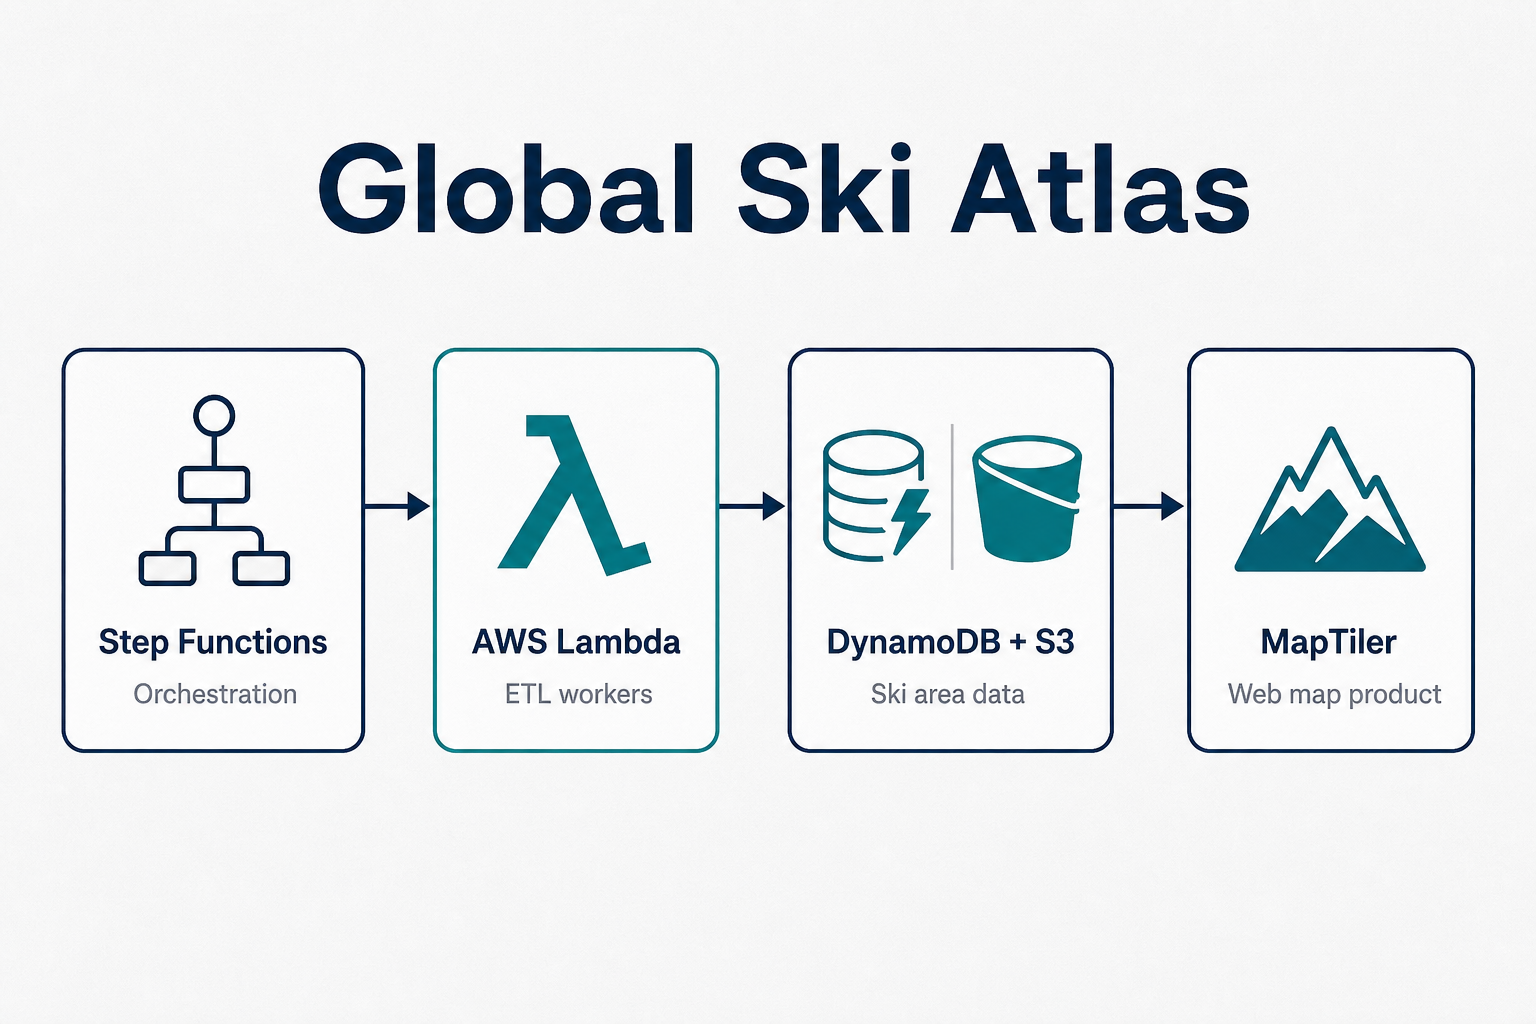
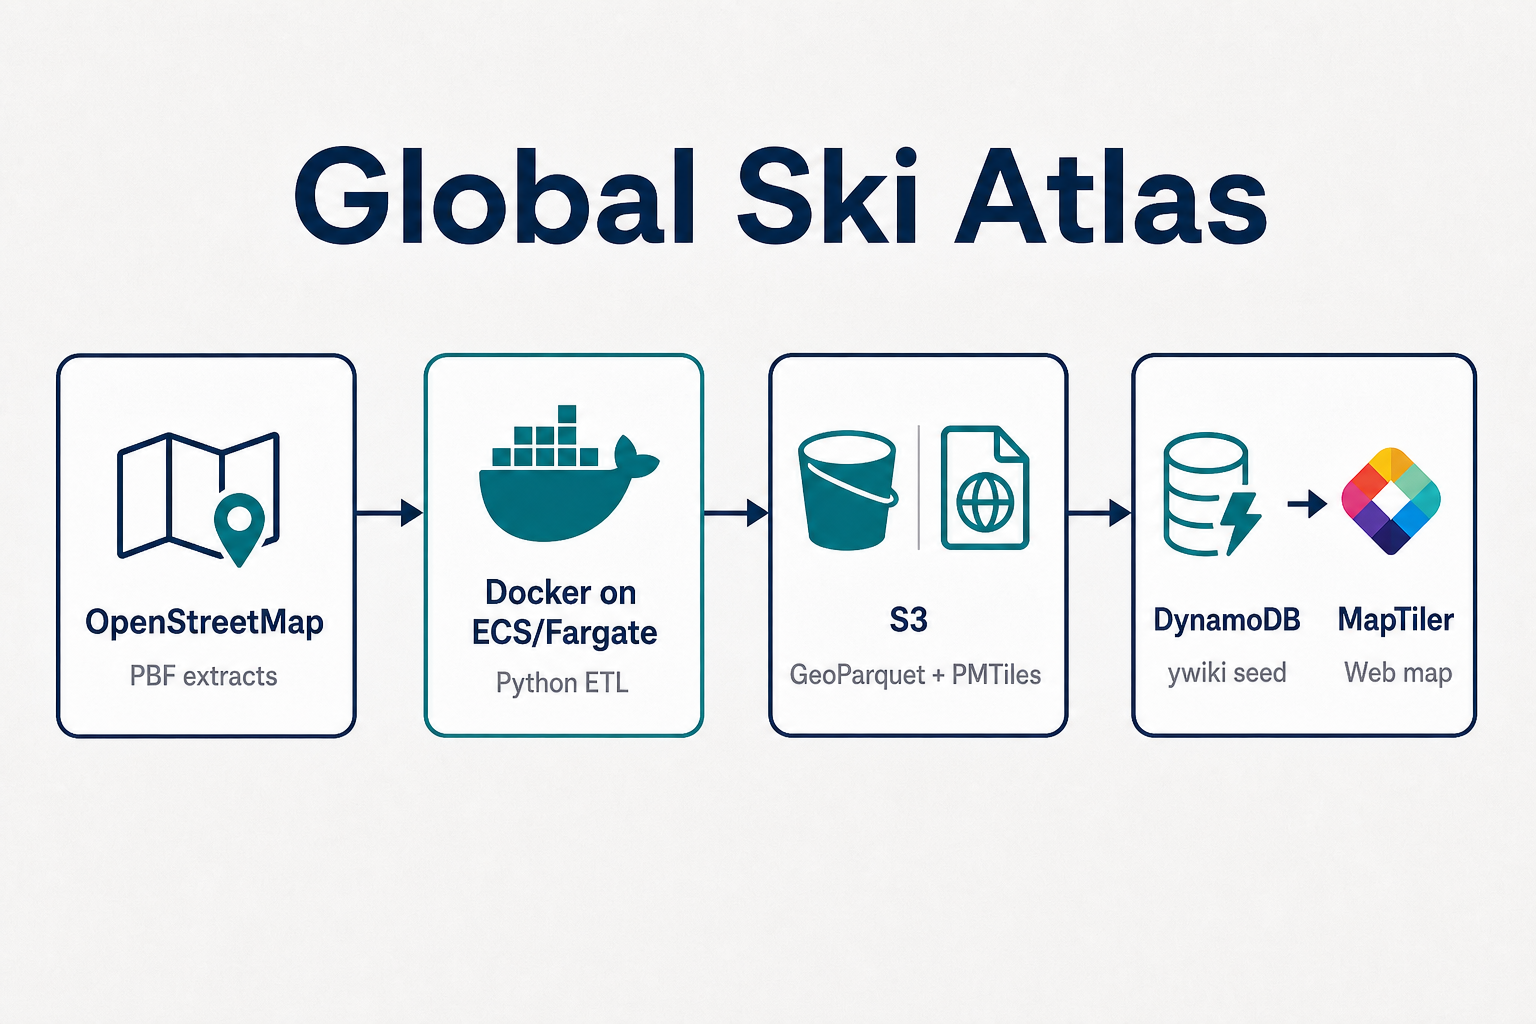
Update Global Ski Atlas architecture: Docker ETL and Parquet→DynamoDB for ywiki.
Reflect the real pipeline — OSM extracts via Docker on ECS/Fargate to GeoParquet/PMTiles, with Parquet seeding ywiki DynamoDB after Lambda limits — and refresh matching diagrams plus copy.

Changed region(s): [[0.0312, 0.3125, 0.9688, 0.75], [0.1875, 0.125, 0.8438, 0.25]]

diff --git a/HTML/src/data/site-data.ts b/HTML/src/data/site-data.ts
@@ -32,7 +32,7 @@ export const experienceData = [
         endYear: "Present",
         bulletPoints: [
             "Build ArcGIS-connected web tools and Python pipelines for map editing, validation, and data extraction",
-            "Ship Global Ski Atlas (3,000+ ski areas) as a live MapTiler web map with automated ETL"
+            "Ship Global Ski Atlas (3,000+ ski areas) as a live MapTiler web map with Docker/ECS ETL (OSM → Parquet/PMTiles → DynamoDB for ywiki)"
         ]
     },
     {
@@ -108,20 +108,20 @@ export const featureWork = [
     {
         title: "Global Ski Atlas",
         description:
-            "Orchestrated serverless GIS backend on AWS: Step Functions drives Lambda ETL into DynamoDB and S3, then a MapTiler web map serves 3,000+ ski areas.",
+            "Containerized GIS pipeline on AWS: Docker runs Python ETL against OpenStreetMap, writes GeoParquet and PMTiles to S3, and loads Parquet into DynamoDB for ywiki — because Lambda hit time/memory limits on regional OSM extracts.",
         outcome:
-            "Chose event-driven orchestration over manual layer edits so resort data stays current as a product, not a one-off map export.",
-        roles: ["AWS", "Step Functions", "Lambda", "DynamoDB", "S3", "MapTiler"],
+            "Moved heavy ETL from Lambda to Docker containers so resort data, map tiles, and wiki seed rows stay in sync as one product pipeline.",
+        roles: ["Docker", "ECS/Fargate", "OpenStreetMap", "GeoParquet", "PMTiles", "S3", "DynamoDB"],
         image: "/images/feature-work/architecture/global-ski-atlas.png",
         url: "https://globalskiatlas.com",
     },
     {
         title: "ywiki",
         description:
-            "Markdown wiki product on AWS: Cognito for write auth, Lambda/API for the wiki API, DynamoDB for pages/revisions/comments, SAM for deploy — built to feed Ski Atlas content workflows.",
+            "Markdown wiki on AWS: Cognito for write auth, Lambda/API Gateway for the wiki API, DynamoDB for pages/revisions/comments — seeded from Global Ski Atlas Parquet so resort entries start from the same pipeline that builds the map.",
         outcome:
-            "Picked managed auth and a revision accept/reject workflow so collaborative resort pages stay durable and auditable without running a traditional wiki server.",
-        roles: ["Cognito", "Lambda", "DynamoDB", "SAM", "S3"],
+            "Reused the atlas Parquet → DynamoDB load instead of a separate content DB, so wiki and map share one ski-area source of truth.",
+        roles: ["Cognito", "Lambda", "DynamoDB", "SAM", "Parquet ingest"],
         image: "/images/feature-work/architecture/ywiki.png",
         url: "https://github.com/jwitcoski/ywiki",
     },

diff --git a/HTML/public/aws-playground/index.html b/HTML/public/aws-playground/index.html
@@ -110,7 +110,7 @@
           <div class="work-body">
             <p class="work-meta">Product · Serverless · ETL</p>
             <h3 class="work-title">Global Ski Atlas on AWS</h3>
-            <p class="work-desc">Step Functions, Lambda, DynamoDB, and S3 powering a live ski-resort map product.</p>
+            <p class="work-desc">Docker on ECS/Fargate runs OSM → GeoParquet/PMTiles, then loads Parquet into DynamoDB for ywiki.</p>
             <span class="work-go">Visit globalskiatlas.com →</span>
           </div>
         </a>
@@ -120,9 +120,9 @@
             <img src="/images/feature-work/architecture/ywiki.png" alt="ywiki architecture" width="640" height="400" loading="lazy" />
           </div>
           <div class="work-body">
-            <p class="work-meta">Wiki · Cognito · Lambda · DynamoDB</p>
+            <p class="work-meta">Wiki · Cognito · Lambda · DynamoDB · Atlas Parquet</p>
             <h3 class="work-title">ywiki</h3>
-            <p class="work-desc">Serverless Markdown wiki with Cognito write auth, DynamoDB revisions, and SAM deploy — content workflows for Ski Atlas.</p>
+            <p class="work-desc">Serverless Markdown wiki seeded from Ski Atlas Parquet into DynamoDB — Cognito write auth and revision workflow.</p>
             <span class="work-go">View on GitHub →</span>
           </div>
         </a>

diff --git a/HTML/public/Jonathan_Witcoski_Resume_2026.md b/HTML/public/Jonathan_Witcoski_Resume_2026.md
@@ -71,7 +71,7 @@ GIS Solutions Developer, Tyco Telecommunications (2007–2009) · GIS Analyst, W
 
 ## PROJECTS
 
-**Global Ski Atlas** — Serverless GIS product on AWS (Step Functions, Lambda, DynamoDB, S3) + MapTiler ([globalskiatlas.com](https://globalskiatlas.com))  
+**Global Ski Atlas** — Containerized GIS pipeline on AWS (Docker/ECS, GeoParquet, PMTiles, DynamoDB) + MapTiler ([globalskiatlas.com](https://globalskiatlas.com))  
 **ywiki** — Cognito-authenticated Markdown wiki on Lambda and DynamoDB ([github.com/jwitcoski/ywiki](https://github.com/jwitcoski/ywiki))  
 **Cloud Resume Challenge** — AWS-hosted application with IaC, REST APIs, and CI/CD ([witcoskitech.com](https://witcoskitech.com))  
 **Learn Bosnian** — S3/CloudFront lessons with Transcribe + Bedrock speak-check ([github.com/jwitcoski/learnbosnian](https://github.com/jwitcoski/learnbosnian))

diff --git a/HTML/public/Jonathan_Witcoski_Resume_Solutions_Architect_2026.md b/HTML/public/Jonathan_Witcoski_Resume_Solutions_Architect_2026.md
@@ -70,7 +70,7 @@ GIS Solutions Developer, Tyco Telecommunications (2007–2009) · GIS Analyst, W
 
 **Cloud Resume Challenge** — Designed and deployed an AWS-hosted portfolio application using infrastructure as code, REST APIs, DynamoDB, Lambda, API Gateway, CloudFront, and CI/CD ([witcoskitech.com](https://witcoskitech.com))
 
-**Global Ski Atlas** — Multi-tier AWS architecture combining serverless APIs, containerized data processing, and web GIS delivery ([globalskiatlas.com](https://globalskiatlas.com))
+**Global Ski Atlas** — Multi-tier AWS architecture: Docker/ECS pipeline for OSM → GeoParquet/PMTiles, S3 delivery, DynamoDB seed for ywiki ([globalskiatlas.com](https://globalskiatlas.com))
 
 **Vector Ledger (TBD)** — Planned ArcGIS + AWS lakehouse editing/validation product; architecture target only ([vectorscopeai.com](https://vectorscopeai.com))
 
